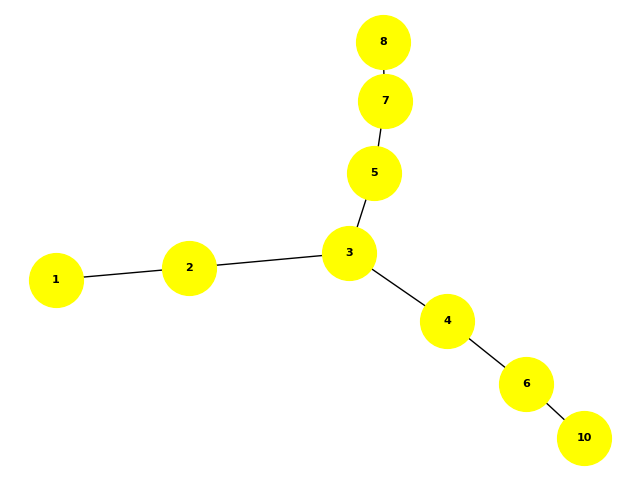
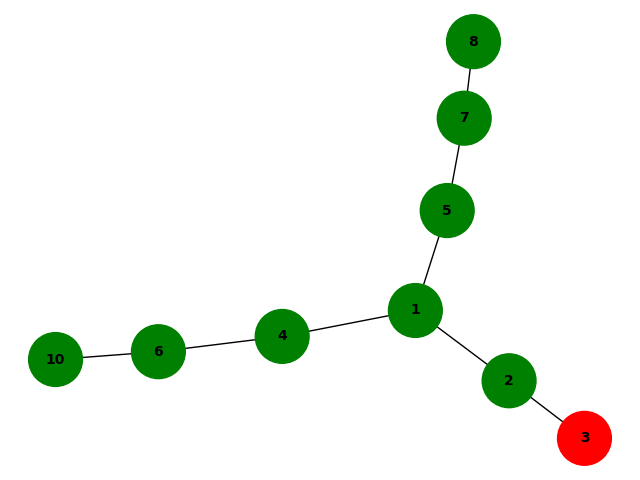
root node 3

Changed region(s): [[0.0312, 0.0312, 0.9688, 0.9688], [0.0312, 0.6562, 0.3125, 0.8125]]

diff --git a/grpc_docker/ddfs/dfs_client1.py b/grpc_docker/ddfs/dfs_client1.py
@@ -11,14 +11,15 @@ import os
 import yaml
 import matplotlib.pyplot as plt
 
-global_node_id  = os.getenv('NODE_ID')
-PORT = os.getenv('PORT')
+global_node_id  = int(os.getenv('NODE_ID'))
+PORT = int(os.getenv('PORT'))
 print(global_node_id)
 
 
 def run():
     with open("ip_configuration.yml",'r') as file_ip:
         dict_ip = yaml.safe_load(file_ip)
+    #ip =str(dict_ip.get(str(global_node_id)))+':'+str(PORT)
     ip ='localhost:'+str(PORT)
 
     # NOTE(gRPC Python Team): .close() is possible on a channel and should be
@@ -43,14 +44,15 @@ def run():
         stub = dfs_pb2_grpc.DFSStub(channel)
         response = stub.MakeRoot(dfs_pb2.RootRequest(type=1))
         for i in range(0, len(response.child)):
-            print("Child: " + str(response.child[i]) + "Parent: " + str(response.parent[i]))
+            print("Child: " + str(response.child[i]) + " Parent: " + str(response.parent[i]))
             edge = np.sort(np.array([response.parent[i], response.child[i]]))
             edges=np.append(edges,np.array([edge]), axis=0)
             edges = np.unique(edges, axis=0)
                  
     G = nx.from_edgelist(edges)
     pos = nx.spring_layout(G)
-    nx.draw(G, pos, node_size=1500, node_color='yellow', font_size=8, font_weight='bold',with_labels=True)
+    color_map = ['red' if node == global_node_id else 'green' for node in G] 
+    nx.draw(G, pos, node_size=1500, node_color=color_map, font_size=10, font_weight='bold',with_labels=True)
     plt.savefig("output/mst.png")
  
 
